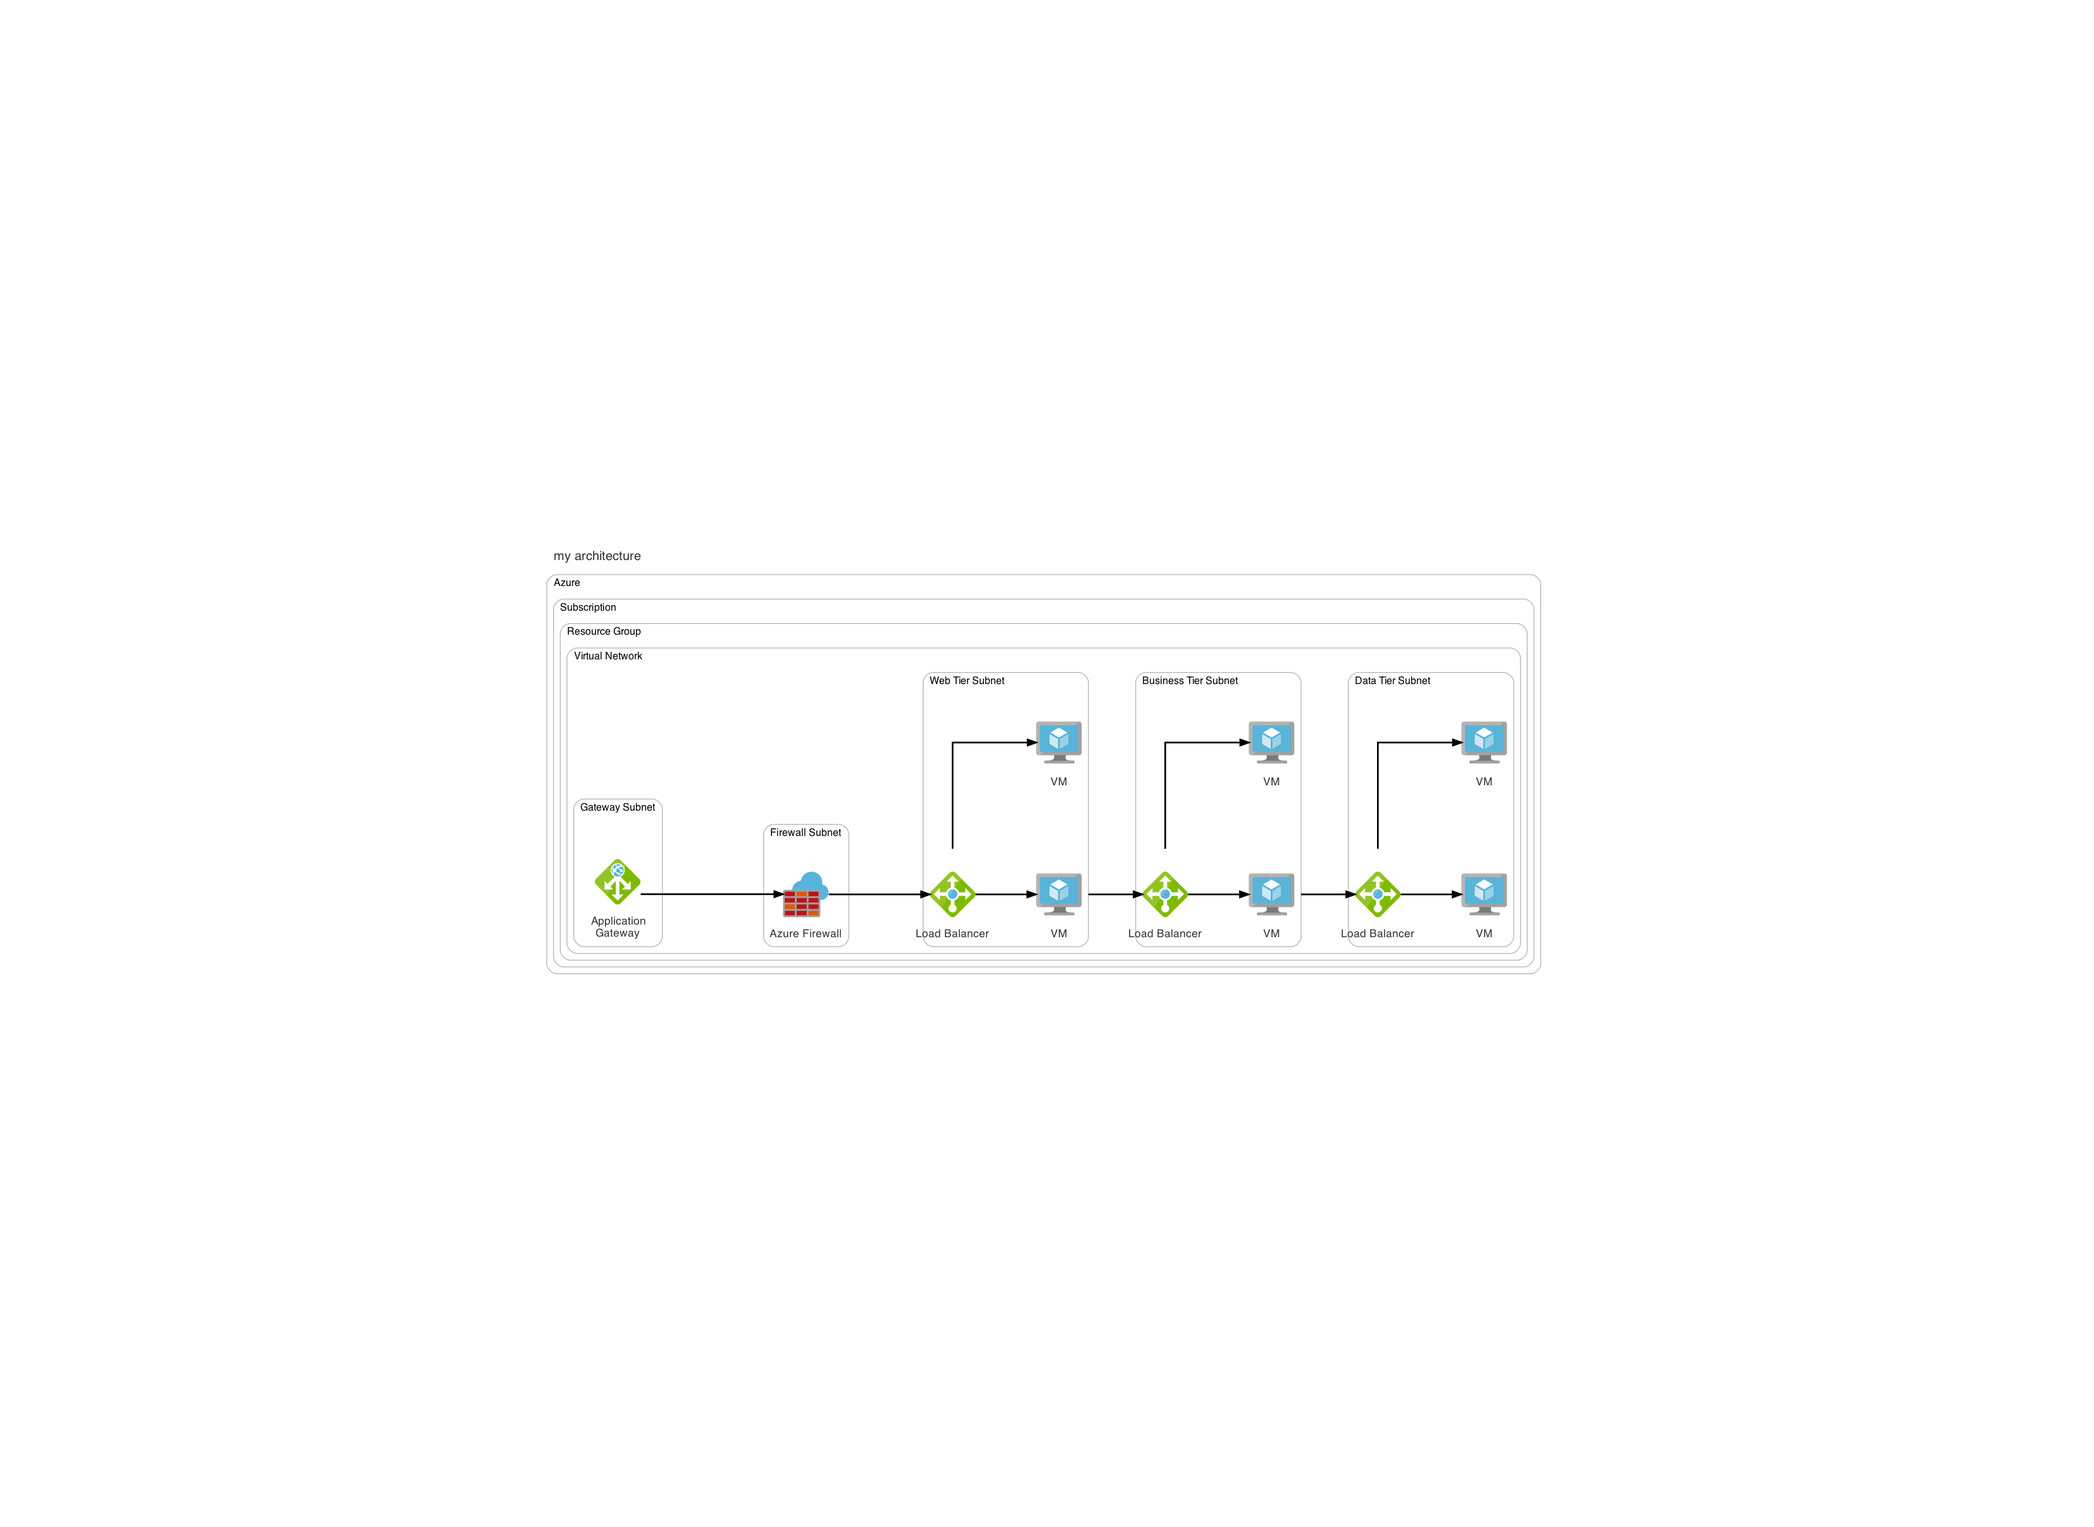
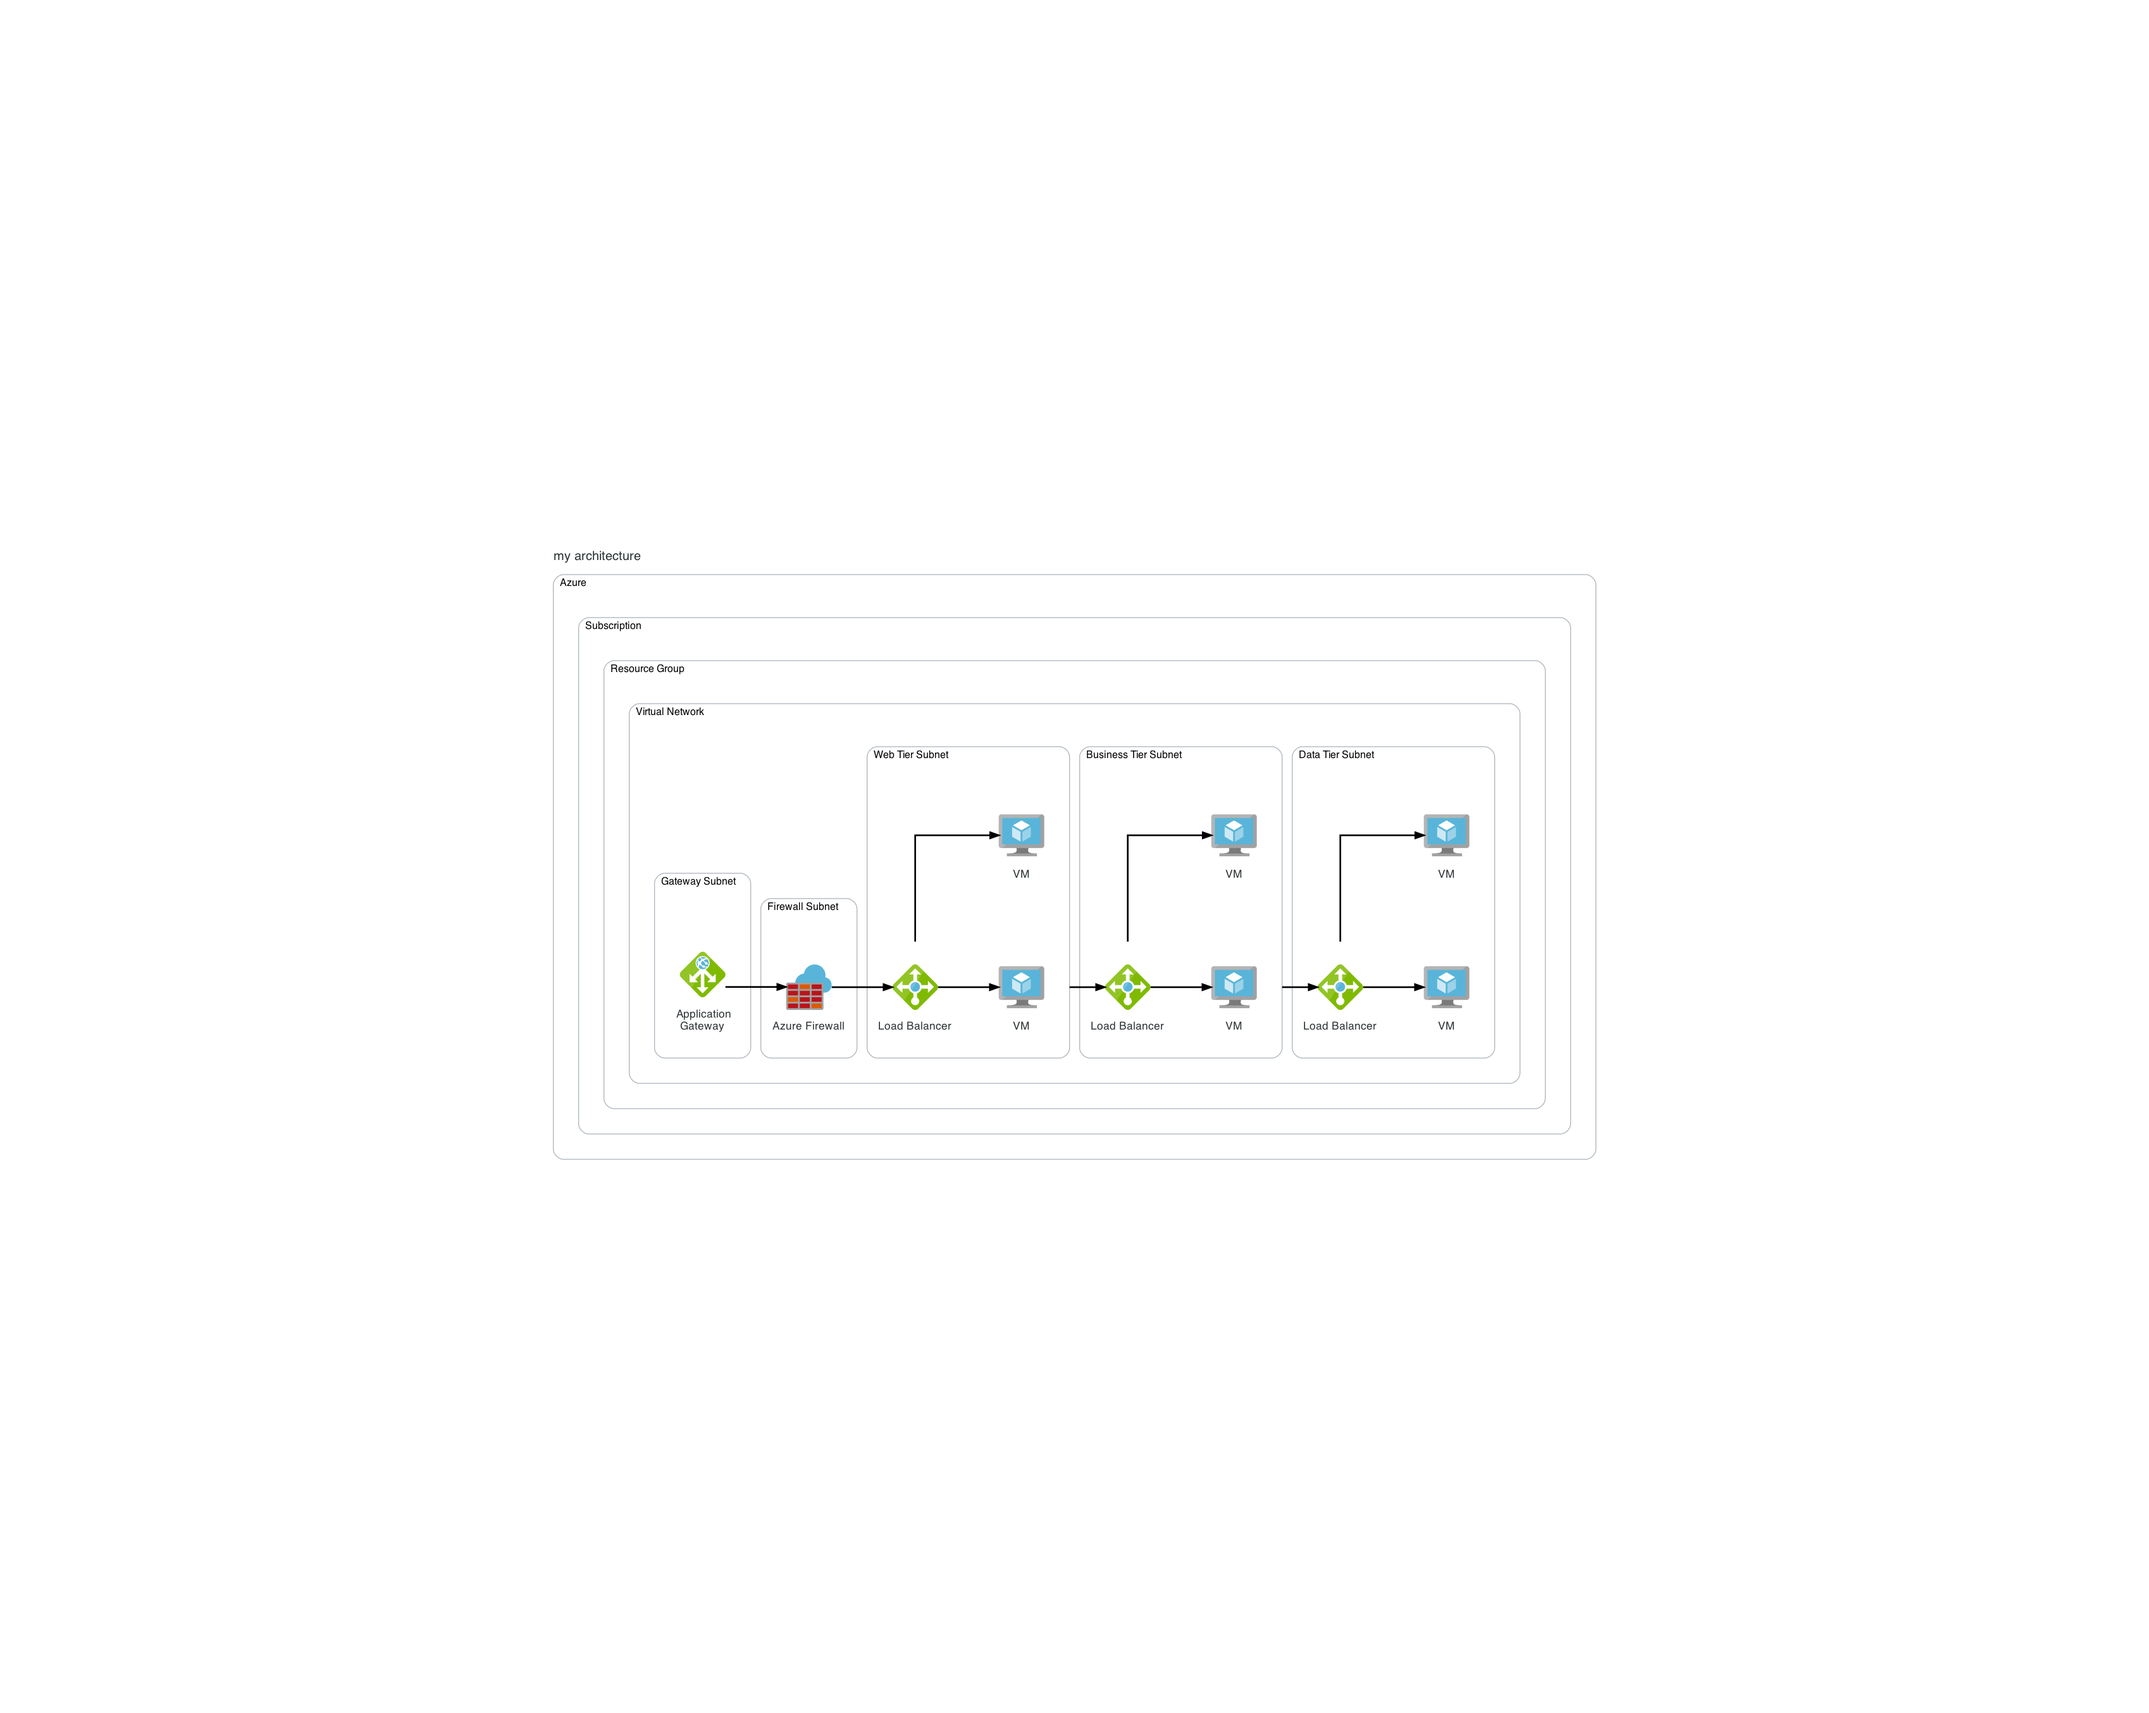
updated the clean theme to add margin

Changed region(s): [[0.249, 0.3419, 0.7471, 0.6527], [0.249, 0.3108, 0.2801, 0.3419]]

diff --git a/architectures/themes/__init__.py b/architectures/themes/__init__.py
@@ -195,7 +195,8 @@ class Clean(_Theme):
             "labeljust": "l",
             "pencolor": "#AEB6BE",
             "fontname": "Sans-Serif",
-            "fontsize": "12"
+            "fontsize": "12",
+            "margin": "30"
         }
 
         self.theme_node_attrs = {
